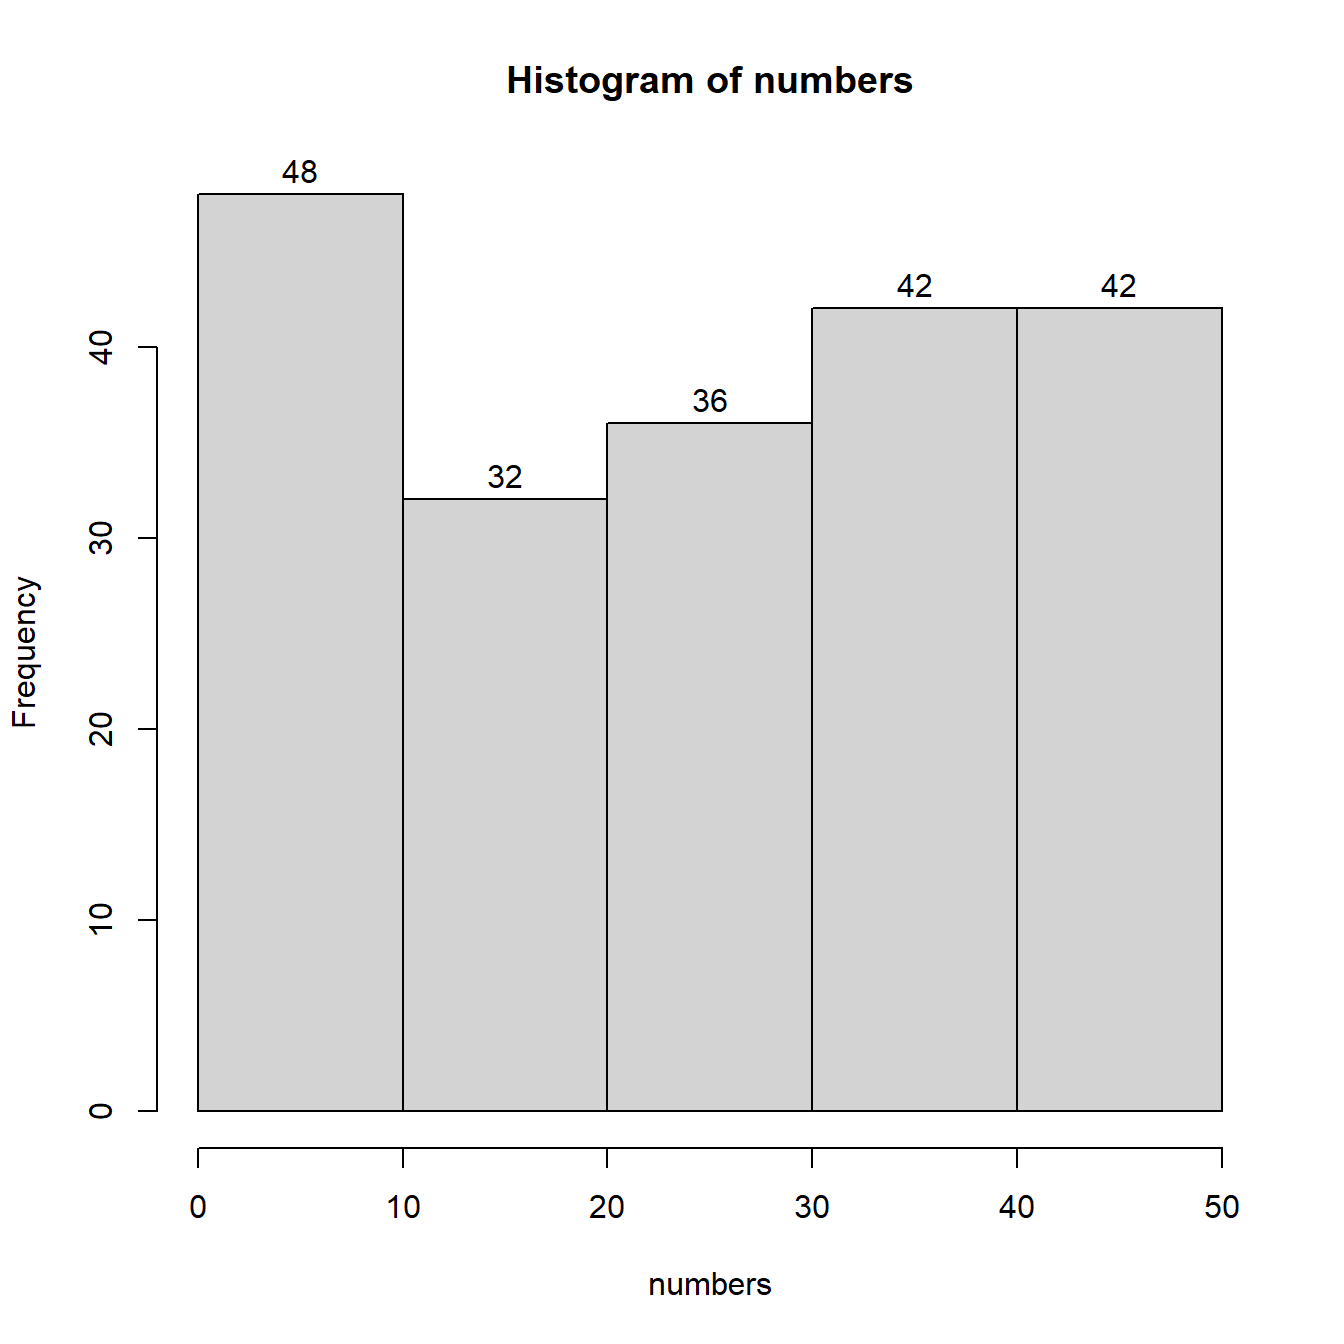
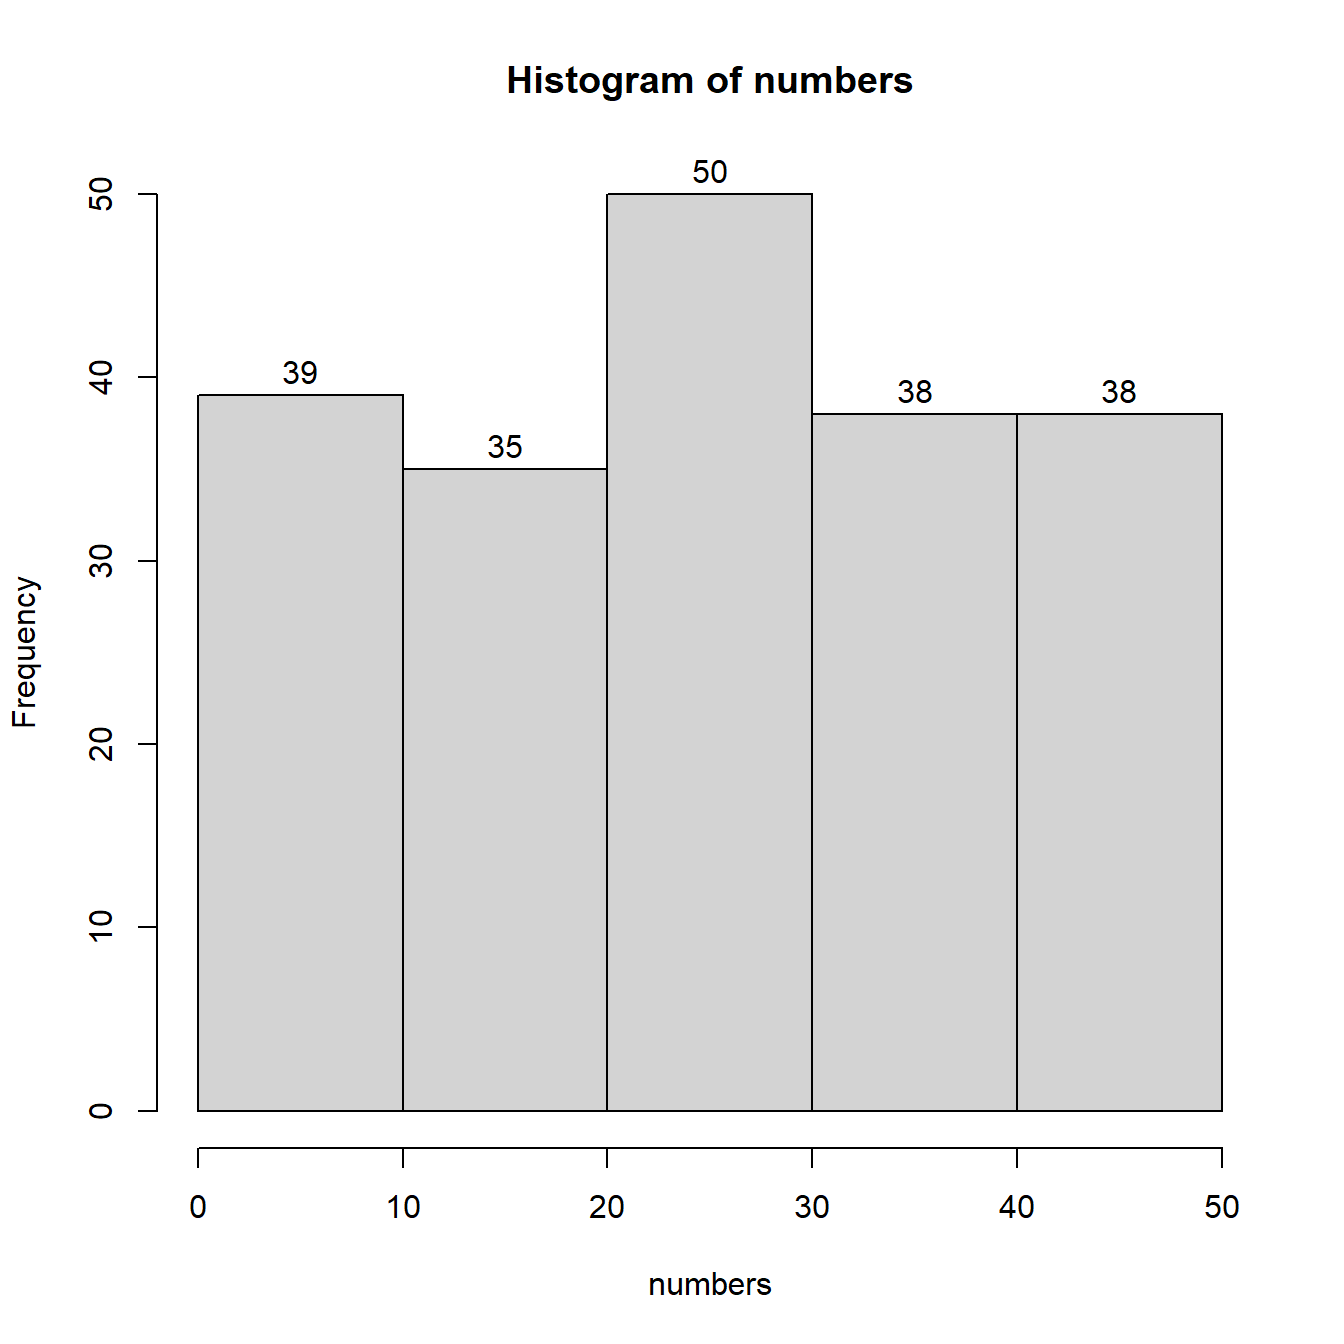
updates

diff --git a/docs/session2.html b/docs/session2.html
@@ -193,13 +193,13 @@ code span.wa { color: #60a0b0; font-weight: bold; font-style: italic; } /* Warni
 <li class="chapter" data-level="7.1" data-path="session7.html"><a href="session7.html#reflecting-on-day-1"><i class="fa fa-check"></i><b>7.1</b> Reflecting on Day 1</a></li>
 <li class="chapter" data-level="7.2" data-path="session7.html"><a href="session7.html#learning-objectives-4"><i class="fa fa-check"></i><b>7.2</b> Learning Objectives</a></li>
 <li class="chapter" data-level="7.3" data-path="session7.html"><a href="session7.html#working-with-the-file"><i class="fa fa-check"></i><b>7.3</b> Working with the file</a></li>
-<li class="chapter" data-level="7.4" data-path="session7.html"><a href="session7.html#exercise-10-1"><i class="fa fa-check"></i><b>7.4</b> Exercise 10</a></li>
+<li class="chapter" data-level="7.4" data-path="session7.html"><a href="session7.html#exercise-11"><i class="fa fa-check"></i><b>7.4</b> Exercise 11</a></li>
 </ul></li>
 <li class="chapter" data-level="8" data-path="session8.html"><a href="session8.html"><i class="fa fa-check"></i><b>8</b> Bringing Everything Together. Part II</a>
 <ul>
 <li class="chapter" data-level="8.1" data-path="session8.html"><a href="session8.html#learning-objectives-5"><i class="fa fa-check"></i><b>8.1</b> Learning Objectives</a></li>
 <li class="chapter" data-level="8.2" data-path="session8.html"><a href="session8.html#continuing-with-the-exercise-10-and-two-way-anova"><i class="fa fa-check"></i><b>8.2</b> Continuing with the exercise 10 and two-way ANOVA</a></li>
-<li class="chapter" data-level="8.3" data-path="session8.html"><a href="session8.html#exercise-11"><i class="fa fa-check"></i><b>8.3</b> Exercise 11</a></li>
+<li class="chapter" data-level="8.3" data-path="session8.html"><a href="session8.html#exercise-11-1"><i class="fa fa-check"></i><b>8.3</b> Exercise 11</a></li>
 </ul></li>
 <li class="chapter" data-level="9" data-path="session9.html"><a href="session9.html"><i class="fa fa-check"></i><b>9</b> Restructuring and Merging Data.</a>
 <ul>
@@ -297,7 +297,7 @@ We will also start working on some basic concepts of statistical exploration of 
 <span id="cb12-3"><a href="session2.html#cb12-3"></a>numbers &lt;-<span class="st"> </span><span class="kw">sample.int</span>(<span class="dv">10</span>, <span class="dv">5</span>, <span class="dt">replace =</span> <span class="ot">TRUE</span>)</span>
 <span id="cb12-4"><a href="session2.html#cb12-4"></a></span>
 <span id="cb12-5"><a href="session2.html#cb12-5"></a>numbers</span></code></pre></div>
-<p>[1] 9 6 3 3 4</p>
+<p>[1] 3 10 2 6 5</p>
 <p>As mentioned above, I used a function called <strong>sample.int()</strong>. A <strong>function</strong> in R, is a mechanism that can perform a task. In this case our function can select an integer number randomly. A function also includes two brackets (). Within these brackets we can specify our own arguments in order to be clear what we want R to do for us when this function is used.</p>
 <p>Notice the number 10, this <strong>argument</strong> instructs our function that we want to pick randomly a number between 1 and 10.</p>
 <p>Notice the second number 5, this <strong>argument</strong> instructs our function to give 5 such numbers from 1 to 10.</p>
@@ -311,14 +311,14 @@ We will also start working on some basic concepts of statistical exploration of 
 <span id="cb13-3"><a href="session2.html#cb13-3"></a><span class="co"># See how my arguments have now changed.</span></span>
 <span id="cb13-4"><a href="session2.html#cb13-4"></a>numbers &lt;-<span class="st"> </span><span class="kw">sample.int</span>(<span class="dv">50</span>, <span class="dv">200</span>, <span class="dt">replace =</span> <span class="ot">TRUE</span>)</span>
 <span id="cb13-5"><a href="session2.html#cb13-5"></a>numbers</span></code></pre></div>
-<p>[1] 33 40 47 25 36 38 40 8 7 41 46 42 7 49 33 49 49 43 26 27 39 6 20 10 44
-[26] 45 48 13 1 3 42 5 8 2 50 38 37 29 5 7 15 3 18 38 34 8 14 37 49 23
-[51] 13 29 4 16 14 44 27 2 22 2 5 31 11 3 45 18 39 46 29 10 10 46 47 23 17
-[76] 33 16 49 2 8 21 32 34 48 25 14 34 8 10 36 27 27 27 5 42 21 16 3 11 33
-[101] 33 14 19 47 43 27 41 9 36 10 26 46 25 20 44 40 9 37 6 27 10 9 5 3 23
-[126] 44 11 6 21 44 43 35 13 14 25 29 23 35 28 4 18 40 43 39 4 46 33 16 40 1
-[151] 21 16 31 31 13 11 22 16 39 13 32 40 9 10 2 48 38 7 45 44 49 32 37 20 3
-[176] 29 31 37 22 7 36 29 30 23 2 14 46 13 30 22 28 47 41 11 34 43 42 44 9 6</p>
+<p>[1] 14 25 26 27 5 27 28 9 29 35 8 26 7 42 9 19 36 14 17 43 39 12 15 32 42
+[26] 45 7 9 41 10 23 27 7 27 32 38 25 34 29 5 8 12 13 18 33 27 25 38 21 15
+[51] 41 47 26 31 16 30 6 43 8 22 22 39 31 48 17 50 49 34 4 13 5 25 22 25 32
+[76] 46 25 23 35 40 48 30 12 31 46 30 35 14 29 32 7 3 23 15 21 37 8 10 50 42
+[101] 44 34 10 22 12 20 46 17 46 35 40 46 30 15 24 49 23 43 7 29 15 23 26 38 46
+[126] 32 7 27 42 5 6 16 24 32 21 11 36 44 46 19 25 39 26 9 7 34 48 13 19 47
+[151] 39 4 1 40 30 30 25 16 24 11 48 20 40 3 29 36 44 22 49 42 20 11 8 46 21
+[176] 45 2 43 13 46 6 8 44 32 36 45 14 16 23 33 40 40 10 25 8 18 9 7 7 10</p>
 <div class="sourceCode" id="cb14"><pre class="sourceCode r"><code class="sourceCode r"><span id="cb14-1"><a href="session2.html#cb14-1"></a><span class="co"># Now we will call a new function to help us group our data.</span></span>
 <span id="cb14-2"><a href="session2.html#cb14-2"></a><span class="co"># First put them in 5 groups. The numbers in c() declare the numbers that define each group.</span></span>
 <span id="cb14-3"><a href="session2.html#cb14-3"></a></span>
@@ -327,7 +327,7 @@ We will also start working on some basic concepts of statistical exploration of 
 <span id="cb14-6"><a href="session2.html#cb14-6"></a><span class="co"># Now I can produce my frequency table using another function</span></span>
 <span id="cb14-7"><a href="session2.html#cb14-7"></a><span class="kw">summary</span>(groups)</span></code></pre></div>
 <p>(0,10] (10,20] (20,30] (30,40] (40,50]
-48 32 36 42 42</p>
+39 35 50 38 38</p>
 <div class="sourceCode" id="cb15"><pre class="sourceCode r"><code class="sourceCode r"><span id="cb15-1"><a href="session2.html#cb15-1"></a><span class="co"># We will now use a new function called hist that creates histograms.</span></span>
 <span id="cb15-2"><a href="session2.html#cb15-2"></a><span class="co"># Note that this function has to work with the original numbers</span></span>
 <span id="cb15-3"><a href="session2.html#cb15-3"></a><span class="co"># and not with the groups.</span></span>

diff --git a/docs/session7.html b/docs/session7.html
@@ -193,13 +193,13 @@ code span.wa { color: #60a0b0; font-weight: bold; font-style: italic; } /* Warni
 <li class="chapter" data-level="7.1" data-path="session7.html"><a href="session7.html#reflecting-on-day-1"><i class="fa fa-check"></i><b>7.1</b> Reflecting on Day 1</a></li>
 <li class="chapter" data-level="7.2" data-path="session7.html"><a href="session7.html#learning-objectives-4"><i class="fa fa-check"></i><b>7.2</b> Learning Objectives</a></li>
 <li class="chapter" data-level="7.3" data-path="session7.html"><a href="session7.html#working-with-the-file"><i class="fa fa-check"></i><b>7.3</b> Working with the file</a></li>
-<li class="chapter" data-level="7.4" data-path="session7.html"><a href="session7.html#exercise-10-1"><i class="fa fa-check"></i><b>7.4</b> Exercise 10</a></li>
+<li class="chapter" data-level="7.4" data-path="session7.html"><a href="session7.html#exercise-11"><i class="fa fa-check"></i><b>7.4</b> Exercise 11</a></li>
 </ul></li>
 <li class="chapter" data-level="8" data-path="session8.html"><a href="session8.html"><i class="fa fa-check"></i><b>8</b> Bringing Everything Together. Part II</a>
 <ul>
 <li class="chapter" data-level="8.1" data-path="session8.html"><a href="session8.html#learning-objectives-5"><i class="fa fa-check"></i><b>8.1</b> Learning Objectives</a></li>
 <li class="chapter" data-level="8.2" data-path="session8.html"><a href="session8.html#continuing-with-the-exercise-10-and-two-way-anova"><i class="fa fa-check"></i><b>8.2</b> Continuing with the exercise 10 and two-way ANOVA</a></li>
-<li class="chapter" data-level="8.3" data-path="session8.html"><a href="session8.html#exercise-11"><i class="fa fa-check"></i><b>8.3</b> Exercise 11</a></li>
+<li class="chapter" data-level="8.3" data-path="session8.html"><a href="session8.html#exercise-11-1"><i class="fa fa-check"></i><b>8.3</b> Exercise 11</a></li>
 </ul></li>
 <li class="chapter" data-level="9" data-path="session9.html"><a href="session9.html"><i class="fa fa-check"></i><b>9</b> Restructuring and Merging Data.</a>
 <ul>
@@ -389,8 +389,8 @@ R operates in a different way, we have to have our dataset in the <strong>long</
 <p>Let’s do a final check on variable types and correct any discrepancies.
 This is also a good point to take a short break before we continue with the exrcise.</p>
 </div>
-<div id="exercise-10-1" class="section level2" number="7.4">
-<h2><span class="header-section-number">7.4</span> Exercise 10</h2>
+<div id="exercise-11" class="section level2" number="7.4">
+<h2><span class="header-section-number">7.4</span> Exercise 11</h2>
 <p>Load the datafile <strong>stroopy stroop.csv</strong> and assign it to a dataframe called <strong>stroop</strong>. This contains the data from a Stroop experiment and you should go through the process of preparing it for a two-way ANOVA. You should complete the following steps, which are not given necessarily in the correct order.</p>
 <ol style="list-style-type: decimal">
 <li>Create a <strong>group</strong> variable by recoding the <strong>participant</strong> variable. Participants with value below 2000 should be in the <strong>control</strong> group. Participants with value above 2000 should be in the <strong>gambling</strong> group.<br />

diff --git a/docs/session8.html b/docs/session8.html
@@ -193,13 +193,13 @@ code span.wa { color: #60a0b0; font-weight: bold; font-style: italic; } /* Warni
 <li class="chapter" data-level="7.1" data-path="session7.html"><a href="session7.html#reflecting-on-day-1"><i class="fa fa-check"></i><b>7.1</b> Reflecting on Day 1</a></li>
 <li class="chapter" data-level="7.2" data-path="session7.html"><a href="session7.html#learning-objectives-4"><i class="fa fa-check"></i><b>7.2</b> Learning Objectives</a></li>
 <li class="chapter" data-level="7.3" data-path="session7.html"><a href="session7.html#working-with-the-file"><i class="fa fa-check"></i><b>7.3</b> Working with the file</a></li>
-<li class="chapter" data-level="7.4" data-path="session7.html"><a href="session7.html#exercise-10-1"><i class="fa fa-check"></i><b>7.4</b> Exercise 10</a></li>
+<li class="chapter" data-level="7.4" data-path="session7.html"><a href="session7.html#exercise-11"><i class="fa fa-check"></i><b>7.4</b> Exercise 11</a></li>
 </ul></li>
 <li class="chapter" data-level="8" data-path="session8.html"><a href="session8.html"><i class="fa fa-check"></i><b>8</b> Bringing Everything Together. Part II</a>
 <ul>
 <li class="chapter" data-level="8.1" data-path="session8.html"><a href="session8.html#learning-objectives-5"><i class="fa fa-check"></i><b>8.1</b> Learning Objectives</a></li>
 <li class="chapter" data-level="8.2" data-path="session8.html"><a href="session8.html#continuing-with-the-exercise-10-and-two-way-anova"><i class="fa fa-check"></i><b>8.2</b> Continuing with the exercise 10 and two-way ANOVA</a></li>
-<li class="chapter" data-level="8.3" data-path="session8.html"><a href="session8.html#exercise-11"><i class="fa fa-check"></i><b>8.3</b> Exercise 11</a></li>
+<li class="chapter" data-level="8.3" data-path="session8.html"><a href="session8.html#exercise-11-1"><i class="fa fa-check"></i><b>8.3</b> Exercise 11</a></li>
 </ul></li>
 <li class="chapter" data-level="9" data-path="session9.html"><a href="session9.html"><i class="fa fa-check"></i><b>9</b> Restructuring and Merging Data.</a>
 <ul>
@@ -342,7 +342,7 @@ We have to follow up the interaction.</p>
 <span id="cb63-23"><a href="session8.html#cb63-23"></a><span class="kw">write_csv</span>(stroop2, <span class="st">&quot;stroopfinal.csv&quot;</span>)</span></code></pre></div>
 <p>As mentioned earlier <strong>ggpubr</strong> is a package that calls <strong>ggplot2</strong>. It is really versatile and can cover all our needs in terms of analysis and publications. However, ggplot2 offers many more features that you can try to explore on your own.</p>
 </div>
-<div id="exercise-11" class="section level2" number="8.3">
+<div id="exercise-11-1" class="section level2" number="8.3">
 <h2><span class="header-section-number">8.3</span> Exercise 11</h2>
 <p>Now that you are familiar with the two-way anova you should attempt the three-way anova based on the data that we prepared in the previous session.</p>
 

diff --git a/docs/index.html b/docs/index.html
@@ -193,13 +193,13 @@ code span.wa { color: #60a0b0; font-weight: bold; font-style: italic; } /* Warni
 <li class="chapter" data-level="7.1" data-path="session7.html"><a href="session7.html#reflecting-on-day-1"><i class="fa fa-check"></i><b>7.1</b> Reflecting on Day 1</a></li>
 <li class="chapter" data-level="7.2" data-path="session7.html"><a href="session7.html#learning-objectives-4"><i class="fa fa-check"></i><b>7.2</b> Learning Objectives</a></li>
 <li class="chapter" data-level="7.3" data-path="session7.html"><a href="session7.html#working-with-the-file"><i class="fa fa-check"></i><b>7.3</b> Working with the file</a></li>
-<li class="chapter" data-level="7.4" data-path="session7.html"><a href="session7.html#exercise-10-1"><i class="fa fa-check"></i><b>7.4</b> Exercise 10</a></li>
+<li class="chapter" data-level="7.4" data-path="session7.html"><a href="session7.html#exercise-11"><i class="fa fa-check"></i><b>7.4</b> Exercise 11</a></li>
 </ul></li>
 <li class="chapter" data-level="8" data-path="session8.html"><a href="session8.html"><i class="fa fa-check"></i><b>8</b> Bringing Everything Together. Part II</a>
 <ul>
 <li class="chapter" data-level="8.1" data-path="session8.html"><a href="session8.html#learning-objectives-5"><i class="fa fa-check"></i><b>8.1</b> Learning Objectives</a></li>
 <li class="chapter" data-level="8.2" data-path="session8.html"><a href="session8.html#continuing-with-the-exercise-10-and-two-way-anova"><i class="fa fa-check"></i><b>8.2</b> Continuing with the exercise 10 and two-way ANOVA</a></li>
-<li class="chapter" data-level="8.3" data-path="session8.html"><a href="session8.html#exercise-11"><i class="fa fa-check"></i><b>8.3</b> Exercise 11</a></li>
+<li class="chapter" data-level="8.3" data-path="session8.html"><a href="session8.html#exercise-11-1"><i class="fa fa-check"></i><b>8.3</b> Exercise 11</a></li>
 </ul></li>
 <li class="chapter" data-level="9" data-path="session9.html"><a href="session9.html"><i class="fa fa-check"></i><b>9</b> Restructuring and Merging Data.</a>
 <ul>

diff --git a/docs/introduction.html b/docs/introduction.html
@@ -193,13 +193,13 @@ code span.wa { color: #60a0b0; font-weight: bold; font-style: italic; } /* Warni
 <li class="chapter" data-level="7.1" data-path="session7.html"><a href="session7.html#reflecting-on-day-1"><i class="fa fa-check"></i><b>7.1</b> Reflecting on Day 1</a></li>
 <li class="chapter" data-level="7.2" data-path="session7.html"><a href="session7.html#learning-objectives-4"><i class="fa fa-check"></i><b>7.2</b> Learning Objectives</a></li>
 <li class="chapter" data-level="7.3" data-path="session7.html"><a href="session7.html#working-with-the-file"><i class="fa fa-check"></i><b>7.3</b> Working with the file</a></li>
-<li class="chapter" data-level="7.4" data-path="session7.html"><a href="session7.html#exercise-10-1"><i class="fa fa-check"></i><b>7.4</b> Exercise 10</a></li>
+<li class="chapter" data-level="7.4" data-path="session7.html"><a href="session7.html#exercise-11"><i class="fa fa-check"></i><b>7.4</b> Exercise 11</a></li>
 </ul></li>
 <li class="chapter" data-level="8" data-path="session8.html"><a href="session8.html"><i class="fa fa-check"></i><b>8</b> Bringing Everything Together. Part II</a>
 <ul>
 <li class="chapter" data-level="8.1" data-path="session8.html"><a href="session8.html#learning-objectives-5"><i class="fa fa-check"></i><b>8.1</b> Learning Objectives</a></li>
 <li class="chapter" data-level="8.2" data-path="session8.html"><a href="session8.html#continuing-with-the-exercise-10-and-two-way-anova"><i class="fa fa-check"></i><b>8.2</b> Continuing with the exercise 10 and two-way ANOVA</a></li>
-<li class="chapter" data-level="8.3" data-path="session8.html"><a href="session8.html#exercise-11"><i class="fa fa-check"></i><b>8.3</b> Exercise 11</a></li>
+<li class="chapter" data-level="8.3" data-path="session8.html"><a href="session8.html#exercise-11-1"><i class="fa fa-check"></i><b>8.3</b> Exercise 11</a></li>
 </ul></li>
 <li class="chapter" data-level="9" data-path="session9.html"><a href="session9.html"><i class="fa fa-check"></i><b>9</b> Restructuring and Merging Data.</a>
 <ul>

diff --git a/docs/session4.html b/docs/session4.html
@@ -193,13 +193,13 @@ code span.wa { color: #60a0b0; font-weight: bold; font-style: italic; } /* Warni
 <li class="chapter" data-level="7.1" data-path="session7.html"><a href="session7.html#reflecting-on-day-1"><i class="fa fa-check"></i><b>7.1</b> Reflecting on Day 1</a></li>
 <li class="chapter" data-level="7.2" data-path="session7.html"><a href="session7.html#learning-objectives-4"><i class="fa fa-check"></i><b>7.2</b> Learning Objectives</a></li>
 <li class="chapter" data-level="7.3" data-path="session7.html"><a href="session7.html#working-with-the-file"><i class="fa fa-check"></i><b>7.3</b> Working with the file</a></li>
-<li class="chapter" data-level="7.4" data-path="session7.html"><a href="session7.html#exercise-10-1"><i class="fa fa-check"></i><b>7.4</b> Exercise 10</a></li>
+<li class="chapter" data-level="7.4" data-path="session7.html"><a href="session7.html#exercise-11"><i class="fa fa-check"></i><b>7.4</b> Exercise 11</a></li>
 </ul></li>
 <li class="chapter" data-level="8" data-path="session8.html"><a href="session8.html"><i class="fa fa-check"></i><b>8</b> Bringing Everything Together. Part II</a>
 <ul>
 <li class="chapter" data-level="8.1" data-path="session8.html"><a href="session8.html#learning-objectives-5"><i class="fa fa-check"></i><b>8.1</b> Learning Objectives</a></li>
 <li class="chapter" data-level="8.2" data-path="session8.html"><a href="session8.html#continuing-with-the-exercise-10-and-two-way-anova"><i class="fa fa-check"></i><b>8.2</b> Continuing with the exercise 10 and two-way ANOVA</a></li>
-<li class="chapter" data-level="8.3" data-path="session8.html"><a href="session8.html#exercise-11"><i class="fa fa-check"></i><b>8.3</b> Exercise 11</a></li>
+<li class="chapter" data-level="8.3" data-path="session8.html"><a href="session8.html#exercise-11-1"><i class="fa fa-check"></i><b>8.3</b> Exercise 11</a></li>
 </ul></li>
 <li class="chapter" data-level="9" data-path="session9.html"><a href="session9.html"><i class="fa fa-check"></i><b>9</b> Restructuring and Merging Data.</a>
 <ul>

diff --git a/docs/session5.html b/docs/session5.html
@@ -193,13 +193,13 @@ code span.wa { color: #60a0b0; font-weight: bold; font-style: italic; } /* Warni
 <li class="chapter" data-level="7.1" data-path="session7.html"><a href="session7.html#reflecting-on-day-1"><i class="fa fa-check"></i><b>7.1</b> Reflecting on Day 1</a></li>
 <li class="chapter" data-level="7.2" data-path="session7.html"><a href="session7.html#learning-objectives-4"><i class="fa fa-check"></i><b>7.2</b> Learning Objectives</a></li>
 <li class="chapter" data-level="7.3" data-path="session7.html"><a href="session7.html#working-with-the-file"><i class="fa fa-check"></i><b>7.3</b> Working with the file</a></li>
-<li class="chapter" data-level="7.4" data-path="session7.html"><a href="session7.html#exercise-10-1"><i class="fa fa-check"></i><b>7.4</b> Exercise 10</a></li>
+<li class="chapter" data-level="7.4" data-path="session7.html"><a href="session7.html#exercise-11"><i class="fa fa-check"></i><b>7.4</b> Exercise 11</a></li>
 </ul></li>
 <li class="chapter" data-level="8" data-path="session8.html"><a href="session8.html"><i class="fa fa-check"></i><b>8</b> Bringing Everything Together. Part II</a>
 <ul>
 <li class="chapter" data-level="8.1" data-path="session8.html"><a href="session8.html#learning-objectives-5"><i class="fa fa-check"></i><b>8.1</b> Learning Objectives</a></li>
 <li class="chapter" data-level="8.2" data-path="session8.html"><a href="session8.html#continuing-with-the-exercise-10-and-two-way-anova"><i class="fa fa-check"></i><b>8.2</b> Continuing with the exercise 10 and two-way ANOVA</a></li>
-<li class="chapter" data-level="8.3" data-path="session8.html"><a href="session8.html#exercise-11"><i class="fa fa-check"></i><b>8.3</b> Exercise 11</a></li>
+<li class="chapter" data-level="8.3" data-path="session8.html"><a href="session8.html#exercise-11-1"><i class="fa fa-check"></i><b>8.3</b> Exercise 11</a></li>
 </ul></li>
 <li class="chapter" data-level="9" data-path="session9.html"><a href="session9.html"><i class="fa fa-check"></i><b>9</b> Restructuring and Merging Data.</a>
 <ul>

diff --git a/docs/session9.html b/docs/session9.html
@@ -193,13 +193,13 @@ code span.wa { color: #60a0b0; font-weight: bold; font-style: italic; } /* Warni
 <li class="chapter" data-level="7.1" data-path="session7.html"><a href="session7.html#reflecting-on-day-1"><i class="fa fa-check"></i><b>7.1</b> Reflecting on Day 1</a></li>
 <li class="chapter" data-level="7.2" data-path="session7.html"><a href="session7.html#learning-objectives-4"><i class="fa fa-check"></i><b>7.2</b> Learning Objectives</a></li>
 <li class="chapter" data-level="7.3" data-path="session7.html"><a href="session7.html#working-with-the-file"><i class="fa fa-check"></i><b>7.3</b> Working with the file</a></li>
-<li class="chapter" data-level="7.4" data-path="session7.html"><a href="session7.html#exercise-10-1"><i class="fa fa-check"></i><b>7.4</b> Exercise 10</a></li>
+<li class="chapter" data-level="7.4" data-path="session7.html"><a href="session7.html#exercise-11"><i class="fa fa-check"></i><b>7.4</b> Exercise 11</a></li>
 </ul></li>
 <li class="chapter" data-level="8" data-path="session8.html"><a href="session8.html"><i class="fa fa-check"></i><b>8</b> Bringing Everything Together. Part II</a>
 <ul>
 <li class="chapter" data-level="8.1" data-path="session8.html"><a href="session8.html#learning-objectives-5"><i class="fa fa-check"></i><b>8.1</b> Learning Objectives</a></li>
 <li class="chapter" data-level="8.2" data-path="session8.html"><a href="session8.html#continuing-with-the-exercise-10-and-two-way-anova"><i class="fa fa-check"></i><b>8.2</b> Continuing with the exercise 10 and two-way ANOVA</a></li>
-<li class="chapter" data-level="8.3" data-path="session8.html"><a href="session8.html#exercise-11"><i class="fa fa-check"></i><b>8.3</b> Exercise 11</a></li>
+<li class="chapter" data-level="8.3" data-path="session8.html"><a href="session8.html#exercise-11-1"><i class="fa fa-check"></i><b>8.3</b> Exercise 11</a></li>
 </ul></li>
 <li class="chapter" data-level="9" data-path="session9.html"><a href="session9.html"><i class="fa fa-check"></i><b>9</b> Restructuring and Merging Data.</a>
 <ul>
